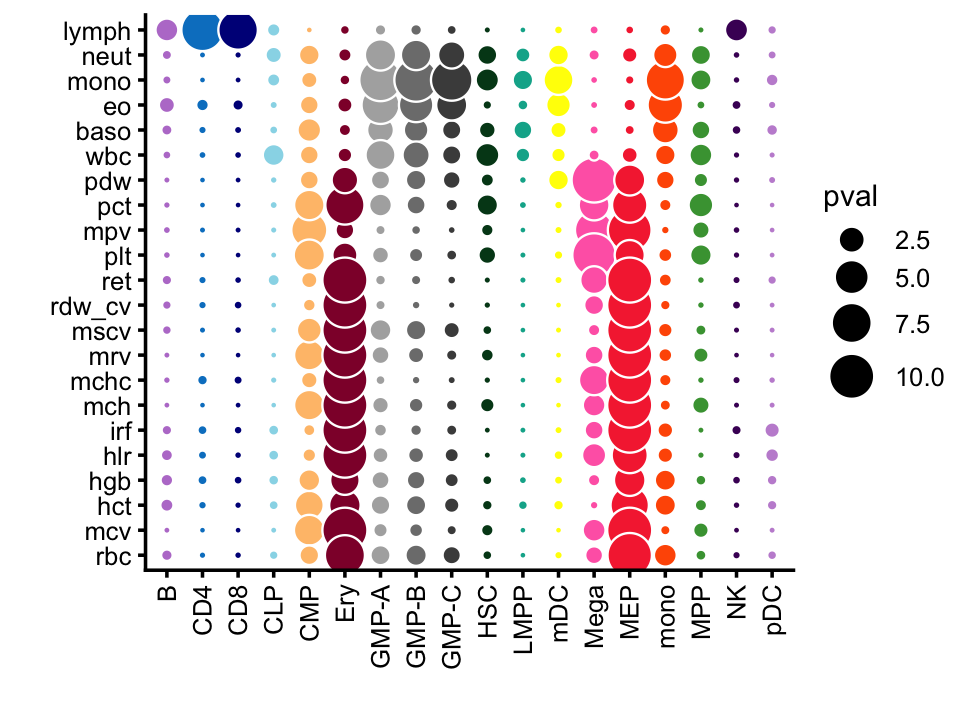
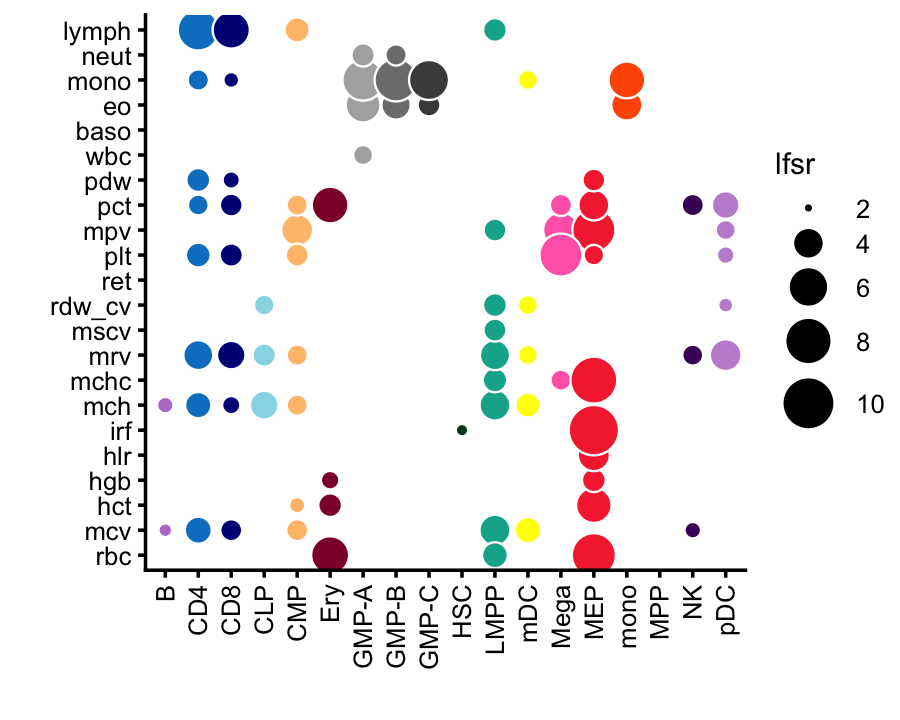
Built the new gchromvar page.

diff --git a/docs/gchromvar.html b/docs/gchromvar.html
@@ -11,7 +11,7 @@
 
 <meta name="author" content="Peter Carbonetto" />
 
-<meta name="date" content="2023-10-23" />
+<meta name="date" content="2023-10-25" />
 
 <title>gchromVAR analysis of SuSiE and mvSuSiE fine-mapping results for UK Biobank blood cell traits</title>
 
@@ -32,7 +32,7 @@
        code {color: inherit; background-color: rgba(0, 0, 0, 0.04);}
        pre:not([class]) { background-color: white }</style>
 <script src="site_libs/navigation-1.1/tabsets.js"></script>
-<link href="site_libs/highlightjs-9.12.0/textmate.css" rel="stylesheet" />
+<link href="site_libs/highlightjs-9.12.0/default.css" rel="stylesheet" />
 <script src="site_libs/highlightjs-9.12.0/highlight.js"></script>
 
 <style type="text/css">
@@ -165,7 +165,7 @@ pre code {
 <h1 class="title toc-ignore">gchromVAR analysis of SuSiE and mvSuSiE
 fine-mapping results for UK Biobank blood cell traits</h1>
 <h4 class="author">Peter Carbonetto</h4>
-<h4 class="date">October 23, 2023</h4>
+<h4 class="date">October 25, 2023</h4>
 
 </div>
 
@@ -174,114 +174,36 @@ fine-mapping results for UK Biobank blood cell traits</h1>
 href="https://github.com/caleblareau/gchromVAR">gchromvar</a> analysis
 here.</p>
 <p>Load the packages used in the analysis.</p>
-<pre class="r"><code>library(chromVAR)
-library(gchromVAR)
+<pre class="r"><code>library(ashr)
 library(BuenColors)
-library(SummarizedExperiment)
-library(data.table)
-library(BiocParallel)
-library(BSgenome.Hsapiens.UCSC.hg19)
 library(ggplot2)
-library(cowplot)
-library(reshape2)</code></pre>
+library(ggrepel)
+library(cowplot)</code></pre>
 <p>For reproducibility, set the seed.</p>
 <pre class="r"><code>set.seed(1)</code></pre>
-<p>Load the susie_rss blood cell trait fine-mapping results. Here we
-will limit to results with PIP &gt; 0.01.</p>
-<pre class="r"><code>susie_outfile   &lt;- file.path(&quot;../output/blood_cell_traits&quot;,
-                             &quot;susierss.notrem.CS_purity0.5.summary.csv.gz&quot;)
-susie &lt;- read.csv(susie_outfile,header = TRUE,stringsAsFactors = FALSE)
-susie &lt;- transform(susie,
-                   CHR    = factor(CHR,1:22),
-                   Region = factor(Region),
-                   trait  = factor(trait),
-                   REF    = factor(REF),
-                   ALT    = factor(ALT))
-susie &lt;- subset(susie,PIP &gt; 0.01)</code></pre>
-<p>Build a set of consensus, equal-width peaks spanning the hematopoesis
-phenotypes.</p>
-<pre class="r"><code>counts_file &lt;- paste0(system.file(&quot;extdata/paper&quot;,package = &quot;gchromVAR&quot;),
-                      &quot;/hemeCounts.tsv.gz&quot;)
-peaks_file &lt;- paste0(system.file(&quot;extdata/paper&quot;,package = &quot;gchromVAR&quot;),
-                     &quot;/hemePeaks.bed.gz&quot;)
-peaksdf &lt;- data.frame(fread(paste0(&quot;zcat &lt; &quot;,peaks_file)))
-peaks &lt;- makeGRangesFromDataFrame(peaksdf,
-                                  seqnames = &quot;V1&quot;,
-                                  start.field = &quot;V2&quot;,
-                                  end.field = &quot;V3&quot;)
-counts &lt;- data.matrix(fread(paste0(&quot;zcat &lt; &quot;, counts_file)))
-hema_dat &lt;- SummarizedExperiment(assays = list(counts = counts),
-                                 rowData = peaks, 
-                                 colData = DataFrame(names = colnames(counts)))
-hema_dat &lt;- addGCBias(hema_dat,genome = BSgenome.Hsapiens.UCSC.hg19)</code></pre>
-<p>Encode the fine-mapping results for each trait as a BED file.</p>
-<pre class="r"><code>traits &lt;- levels(susie$trait)
-bed_files &lt;- paste(traits,&quot;bed&quot;,sep = &quot;.&quot;)
-for (i in traits) {
-  dat  &lt;- subset(susie,trait == i)
-  dat  &lt;- dat[c(&quot;CHR&quot;,&quot;POS&quot;,&quot;Region&quot;,&quot;PIP&quot;)]
-  names(dat) &lt;- c(&quot;chr&quot;,&quot;start&quot;,&quot;region&quot;,&quot;pip&quot;)
-  rows &lt;- order(dat$chr,dat$start)
-  dat  &lt;- dat[rows,]
-  dat &lt;- transform(dat,
-                   chr = paste0(&quot;chr&quot;,chr),
-                   end = start + 1)
-  dat &lt;- dat[c(&quot;chr&quot;,&quot;start&quot;,&quot;end&quot;,&quot;region&quot;,&quot;pip&quot;)]
-  dat$pip &lt;- format(dat$pip,digits = 4) 
-  write.table(dat,paste(i,&quot;bed&quot;,sep = &quot;.&quot;),quote = FALSE,sep = &quot;\t&quot;,
-              row.names = FALSE,col.names = FALSE)
-}</code></pre>
-<p>Now we are ready to compute the weighted deviations using
-gchromVAR.</p>
-<pre class="r"><code>susie_se &lt;- importBedScore(rowRanges(hema_dat),bed_files,colidx = 5)
-wdev_susie &lt;- computeWeightedDeviations(hema_dat,susie_se)</code></pre>
-<p>Extract the z-scores and compute p-values.</p>
-<pre class="r"><code>z_susie &lt;- assays(wdev_susie)$z
-names(dimnames(z_susie)) &lt;- c(&quot;trait&quot;,&quot;celltype&quot;)
-z_susie &lt;- melt(z_susie)
-names(z_susie) &lt;- c(&quot;trait&quot;,&quot;celltype&quot;,&quot;zscore&quot;)</code></pre>
-<p>Perform the lineage-specific enrichment tests:</p>
-<pre class="r"><code>Ery   &lt;- c(&quot;HSC&quot;,&quot;MPP&quot;,&quot;CMP&quot;,&quot;MEP&quot;,&quot;Ery&quot;)
-Meg   &lt;- c(&quot;HSC&quot;,&quot;MPP&quot;,&quot;CMP&quot;,&quot;MEP&quot;,&quot;Mega&quot;)
-Mye   &lt;- c(&quot;HSC&quot;,&quot;MPP&quot;,&quot;CMP&quot;,&quot;LMPP&quot;,&quot;GMP-A&quot;,&quot;GMP-B&quot;,&quot;GMP-C&quot;,&quot;Mono&quot;,&quot;mDC&quot;)
-Lymph &lt;- c(&quot;HSC&quot;,&quot;MPP&quot;,&quot;LMPP&quot;,&quot;CLP&quot;,&quot;NK&quot;,&quot;pDC&quot;,&quot;CD4&quot;,&quot;CD8&quot;,&quot;B&quot;)
-z_susie$enrich  &lt;-
-    (z_susie$trait == &quot;Basophill_perc&quot;    &amp; z_susie$celltype %in% Mye) +
-    (z_susie$trait == &quot;Eosinophill_perc&quot;  &amp; z_susie$celltype %in% Mye) + 
-    (z_susie$trait == &quot;Neutrophill_perc&quot;  &amp; z_susie$celltype %in% Mye) +
-    (z_susie$trait == &quot;Monocyte_perc&quot;     &amp; z_susie$celltype %in% Mye) +
-    (z_susie$trait == &quot;WBC_count&quot;      &amp; z_susie$celltype %in% c(Mye,Lymph)) + 
-    (z_susie$trait == &quot;Lymphocyte_perc&quot;   &amp; z_susie$celltype %in% Lymph) +
-    (z_susie$trait == &quot;Platelet_count&quot;    &amp; z_susie$celltype %in% Meg) + 
-    (z_susie$trait == &quot;PDW&quot;               &amp; z_susie$celltype %in% Meg) + 
-    (z_susie$trait == &quot;Plateletcrit&quot;      &amp; z_susie$celltype %in% Meg) +
-    (z_susie$trait == &quot;Haemoglobin&quot;       &amp; z_susie$celltype %in% Ery) +
-    (z_susie$trait == &quot;RDW&quot;               &amp; z_susie$celltype %in% Ery) +
-    (z_susie$trait == &quot;MCV&quot;               &amp; z_susie$celltype %in% Ery) +
-    (z_susie$trait == &quot;RBC_count&quot;         &amp; z_susie$celltype %in% Ery) +
-    (z_susie$trait == &quot;Reticulocyte_perc&quot; &amp; z_susie$celltype %in% Ery) +
-    (z_susie$trait == &quot;HLR_perc&quot;          &amp; z_susie$celltype %in% Ery)
-z_susie$pval &lt;- -log10(pnorm(z_susie$zscore,lower.tail = FALSE))</code></pre>
-<pre class="r"><code>n &lt;- nrow(z_susie)
-threshold &lt;- (-log10(0.05/n))
-celltypes &lt;- c(&quot;B&quot;,&quot;CD4&quot;,&quot;CD8&quot;,&quot;CLP&quot;,&quot;CMP&quot;,&quot;Ery&quot;,&quot;GMP-A&quot;,&quot;GMP-B&quot;,&quot;GMP-C&quot;,
+<p>These are the cell types in the hematopoesis hierarchy:</p>
+<pre class="r"><code>celltypes &lt;- c(&quot;B&quot;,&quot;CD4&quot;,&quot;CD8&quot;,&quot;CLP&quot;,&quot;CMP&quot;,&quot;Ery&quot;,&quot;GMP-A&quot;,&quot;GMP-B&quot;,&quot;GMP-C&quot;,
                &quot;HSC&quot;,&quot;LMPP&quot;,&quot;mDC&quot;,&quot;Mega&quot;,&quot;MEP&quot;,&quot;mono&quot;,&quot;MPP&quot;,&quot;NK&quot;,&quot;pDC&quot;)
 celltype_colors &lt;- c(jdb_color_map(celltypes[1:11]),
                      c(&quot;yellow&quot;,&quot;hotpink&quot;),
                      jdb_color_map(celltypes[14:18]))
-heatmap_colors &lt;- c(&quot;#d7191c&quot;,&quot;#fdae61&quot;,&quot;#ffffbf&quot;,&quot;#abd9e9&quot;,&quot;#2c7bb6&quot;)
-pdat &lt;- transform(z_susie,
-                  pval = pmin(pval,10))
-ggplot(pdat,aes(x = celltype,y = trait,fill = celltype,size = pval)) +
-  geom_point(shape = 21,color = &quot;white&quot;) +
-  scale_size(range = c(1,5),limits = c(threshold,10)) + 
-  scale_fill_manual(values = celltype_colors,guide = &quot;none&quot;) +
-  guides(size = guide_legend(override.aes = list(shape = 21,fill = &quot;black&quot;))) +
-  theme_cowplot(font_size = 9) +
-  labs(x = &quot;&quot;,y = &quot;&quot;) +
-  theme(axis.text.x = element_text(angle = 90,hjust = 1,vjust = 0.5))
-# Warning: Removed 260 rows containing missing values (geom_point).</code></pre>
-<p><img src="gchromvar_files/figure-html/heatmap-susie-1.png" width="480" style="display: block; margin: auto;" /></p>
+names(celltype_colors) &lt;- celltypes</code></pre>
+<p>Load the SuSiE and mvSuSiE gchomeVAR results:</p>
+<pre class="r"><code>susie_traits &lt;- rev(
+  c(&quot;Lymphocyte_perc&quot;,&quot;Neutrophill_perc&quot;,&quot;Monocyte_perc&quot;,&quot;Eosinophill_perc&quot;,
+    &quot;Basophill_perc&quot;,&quot;WBC_count&quot;,&quot;PDW&quot;,&quot;Platelet_count&quot;,&quot;Plateletcrit&quot;,
+    &quot;Reticulocyte_perc&quot;,&quot;RDW&quot;,&quot;MSCV&quot;,&quot;HLR_perc&quot;,&quot;Haemoglobin&quot;,&quot;MCV&quot;,
+    &quot;RBC_count&quot;))
+susie   &lt;- read.csv(&quot;../output/blood_cell_traits/gchromvar_susie.csv&quot;,
+                    stringsAsFactors = FALSE)
+mvsusie &lt;- read.csv(&quot;../output/blood_cell_traits/gchromvar_mvsusie.csv&quot;,
+                    stringsAsFactors = FALSE)
+susie   &lt;- transform(susie,
+                     celltype = factor(celltype,celltypes),
+                     trait    = factor(trait,susie_traits))
+mvsusie &lt;- transform(mvsusie,
+                     celltype = factor(celltype,celltypes),
+                     trait    = factor(trait,susie_traits))</code></pre>
 <p>For a point of comparison, we will use the gchromVAR results from the
 <a href="https://doi.org/10.1016/j.cell.2020.08.008">Vuckovic <em>et
 al</em> paper</a> (they were downloaded from <a
@@ -293,25 +215,123 @@ vuckovic &lt;- read.table(&quot;../data/vuckovic_gchromVAR_zscores_ukbb_v2.txt&q
                        sep = &quot;\t&quot;,header = TRUE,stringsAsFactors = FALSE)
 vuckovic &lt;- transform(vuckovic,
                       Celltype = factor(Celltype,celltypes),
-                      Trait = factor(Trait,vuckovic_traits),
-                      pval = pmin(pval,10))</code></pre>
-<p>This plot reproduces Fig. 3A from the Vuckovic <em>et al</em>
+                      Trait = factor(Trait,vuckovic_traits))</code></pre>
+<p>Shrink the <em>z</em>-scores using adaptive shrinkage:</p>
+<pre class="r"><code>ash1 &lt;- ash(susie$zscore,1)
+ash2 &lt;- ash(mvsusie$zscore,1)
+ash3 &lt;- ash(vuckovic$zscore,1)
+susie    &lt;- transform(susie,
+                      zscore = with(ash1$result,PosteriorMean/PosteriorSD),
+                      lfsr = -log10(ash1$result$lfsr))
+mvsusie  &lt;- transform(mvsusie,
+                      zscore = with(ash2$result,PosteriorMean/PosteriorSD),
+                      lfsr = -log10(ash2$result$lfsr))
+vuckovic &lt;- transform(vuckovic,
+                      zscore = with(ash3$result,PosteriorMean/PosteriorSD),
+                      lfsr = -log10(ash3$result$lfsr))</code></pre>
+<p>This plot roughly reproduces Fig. 3A from the Vuckovic <em>et al</em>
 paper:</p>
-<pre class="r"><code>pdat &lt;- transform(vuckovic,pval = pmin(pval,10))
-ggplot(vuckovic,aes(x = Celltype,y = Trait,fill = Celltype,size = pval)) +
+<pre class="r"><code>pdat &lt;- transform(vuckovic,lfsr = pmin(lfsr,10))
+p1&lt;-ggplot(vuckovic,aes(x = Celltype,y = Trait,fill = Celltype,size = lfsr)) +
   geom_point(shape = 21,color = &quot;white&quot;) +
-  scale_size(range = c(0.65,6)) +
+  scale_size(range = c(1,7),limits = c(2,10)) +
   scale_fill_manual(values = celltype_colors,guide = &quot;none&quot;) +
   guides(size = guide_legend(override.aes = list(shape = 21,fill = &quot;black&quot;))) +
   theme_cowplot(font_size = 9) +
   labs(x = &quot;&quot;,y = &quot;&quot;) +
-  theme(axis.text.x = element_text(angle = 90,hjust = 1,vjust = 0.5))</code></pre>
-<p><img src="gchromvar_files/figure-html/heatmap-vuckovic-1.png" width="480" style="display: block; margin: auto;" /></p>
-<p>ADD TEXT HERE</p>
-<pre class="r"><code>plot(subset(vuckovic,Trait == &quot;wbc&quot;)$zscore,
-     subset(z_susie,trait == &quot;WBC_count&quot;)$zscore,
-     pch = 20)</code></pre>
-<p><img src="gchromvar_files/figure-html/unnamed-chunk-1-1.png" width="840" style="display: block; margin: auto;" /></p>
+  theme(axis.text.x = element_text(angle = 90,hjust = 1,vjust = 0.5))
+p1</code></pre>
+<p><img src="gchromvar_files/figure-html/heatmap-vuckovic-1.png" width="450" style="display: block; margin: auto;" /></p>
+<p>Let’s now compare these results to the results generated by the
+mvsusie fine-mapping of blood cell traits:</p>
+<pre class="r"><code>pdat &lt;- transform(mvsusie,lfsr = pmin(lfsr,10))
+p2 &lt;- ggplot(mvsusie,aes(x = celltype,y = trait,fill = celltype,size = lfsr)) +
+  geom_point(shape = 21,color = &quot;white&quot;) +
+  scale_size(range = c(1,7),limits = c(2,10)) +
+  scale_fill_manual(values = celltype_colors,guide = &quot;none&quot;) +
+  guides(size = guide_legend(override.aes = list(shape = 21,fill = &quot;black&quot;))) +
+  theme_cowplot(font_size = 9) +
+  labs(x = &quot;&quot;,y = &quot;&quot;) +
+  theme(axis.text.x = element_text(angle = 90,hjust = 1,vjust = 0.5))
+plot_grid(p1 + ggtitle(&quot;vuckovic et al&quot;),
+          p2 + ggtitle(&quot;mvsusie&quot;),
+          rel_widths = c(87,100))</code></pre>
+<p><img src="gchromvar_files/figure-html/heatmap-mvsusie-1.png" width="840" style="display: block; margin: auto;" /></p>
+<p>Compare the susie-based and mvsusie-based gchromVAR
+<em>z</em>-scores:</p>
+<pre class="r"><code>pdat &lt;- data.frame(trait    = susie$trait,
+                   celltype = susie$celltype,
+                   susie    = susie$zscore,
+                   mvsusie  = mvsusie$zscore)
+z &lt;- c(susie$zscore,mvsusie$zscore)
+ggplot(pdat,aes(x = susie,y = mvsusie,color = celltype,label = trait)) +
+  geom_point(shape = 20,size = 1.75) +
+  geom_abline(intercept = 0,slope = 1,color = &quot;black&quot;,linetype = &quot;dotted&quot;) +
+  geom_text_repel(size = 2,segment.color = &quot;darkgray&quot;,segment.size = 0.25,
+                  min.segment.length = 0) +
+  scale_color_manual(values = celltype_colors) +
+  xlim(min(z),max(z)) +
+  ylim(min(z),max(z)) +
+  theme_cowplot(font_size = 10)</code></pre>
+<p><img src="gchromvar_files/figure-html/mvsusie-vs-susie-1.png" width="480" style="display: block; margin: auto;" /></p>
+<p>The same comparison, broken down by cell type:</p>
+<pre class="r"><code>p        &lt;- vector(&quot;list&quot;,length(celltypes))
+names(p) &lt;- celltypes
+for (i in celltypes) {
+  dat1 &lt;- subset(susie,celltype == i)
+  dat2 &lt;- subset(mvsusie,celltype == i)
+  z    &lt;- c(dat1$z,dat2$z)
+  pdat &lt;- data.frame(trait   = as.character(dat1$trait),
+                     susie   = dat1$zscore,
+                     mvsusie = dat2$zscore,
+                     stringsAsFactors = FALSE)
+  p[[i]] &lt;- ggplot(pdat,aes(x = susie,y = mvsusie,label = trait)) +
+    geom_point(shape = 20,color = celltype_colors[i]) +
+    geom_abline(intercept = 0,slope = 1,color = &quot;black&quot;,linetype = &quot;dotted&quot;) +
+    xlim(min(z),max(z)) +
+    ylim(min(z),max(z)) +
+    ggtitle(i) +
+    theme_cowplot(font_size = 9) +
+    theme(plot.title = element_text(size = 10,face = &quot;plain&quot;))
+}
+do.call(plot_grid,p)</code></pre>
+<p><img src="gchromvar_files/figure-html/mvsusie-vs-susie-2-1.png" width="960" style="display: block; margin: auto;" /></p>
+<p>Validation of the mvsusie-based gchromVAR analysis by comparing the
+<em>z</em>-scores for the 6 traits that were common to the mvsusie-based
+analysis and the Vuckovic <em>et al</em> analysis:</p>
+<pre class="r"><code>create_scatterplot &lt;- function (z1, z2, title) {
+  pdat &lt;- data.frame(z1 = z1,z2 = z2)
+  z    &lt;- c(z1,z2)
+  return(ggplot(pdat,aes(x = z1,y = z2)) +
+    geom_point(shape = 20) +
+    geom_abline(intercept = 0,slope = 1,color = &quot;magenta&quot;,
+                linetype = &quot;dotted&quot;) +
+    xlim(min(z),max(z)) +
+    ylim(min(z),max(z)) +
+    labs(x = &quot;vuckovic et al&quot;,y = &quot;mvsusie&quot;,title = title) +
+    theme_cowplot(font_size = 9) +
+    theme(plot.title = element_text(size = 9,face = &quot;plain&quot;)))
+}
+p1 &lt;- create_scatterplot(subset(vuckovic,Trait == &quot;wbc&quot;)$zscore,
+                         subset(mvsusie,trait == &quot;WBC_count&quot;)$zscore,
+                         &quot;WBC count&quot;)
+p2 &lt;- create_scatterplot(subset(vuckovic,Trait == &quot;plt&quot;)$zscore,
+                         subset(mvsusie,trait == &quot;Platelet_count&quot;)$zscore,
+                         &quot;platelet count&quot;)
+p3 &lt;- create_scatterplot(subset(vuckovic,Trait == &quot;rbc&quot;)$zscore,
+                         subset(mvsusie,trait == &quot;RBC_count&quot;)$zscore,
+                         &quot;RBC count&quot;)
+p4 &lt;- create_scatterplot(subset(vuckovic,Trait == &quot;hgb&quot;)$zscore,
+                         subset(mvsusie,trait == &quot;Haemoglobin&quot;)$zscore,
+                         &quot;Haemoglobin&quot;)
+p5 &lt;- create_scatterplot(subset(vuckovic,Trait == &quot;mcv&quot;)$zscore,
+                         subset(mvsusie,trait == &quot;MCV&quot;)$zscore,
+                         &quot;MCV&quot;)
+p6 &lt;- create_scatterplot(subset(vuckovic,Trait == &quot;pct&quot;)$zscore,
+                         subset(mvsusie,trait == &quot;Plateletcrit&quot;)$zscore,
+                         &quot;Platelet crit.&quot;)
+plot_grid(p1,p2,p3,p4,p5,p6,nrow = 2,ncol = 3)</code></pre>
+<p><img src="gchromvar_files/figure-html/mvsusie-vs-vuckovic-1.png" width="720" style="display: block; margin: auto;" /></p>
 <p>This last code chunk is a record of the exact versions of the R
 packages used to generate the results (in case we want to reproduce this
 analysis):</p>
@@ -328,74 +348,27 @@ analysis):</p>
 # [1] en_US.UTF-8/en_US.UTF-8/en_US.UTF-8/C/en_US.UTF-8/en_US.UTF-8
 # 
 # attached base packages:
-# [1] parallel  stats4    stats     graphics  grDevices utils     datasets 
-# [8] methods   base     
+# [1] stats     graphics  grDevices utils     datasets  methods   base     
 # 
 # other attached packages:
-#  [1] reshape2_1.4.3                    cowplot_1.1.1                    
-#  [3] BSgenome.Hsapiens.UCSC.hg19_1.4.0 BSgenome_1.54.0                  
-#  [5] rtracklayer_1.46.0                Biostrings_2.52.0                
-#  [7] XVector_0.26.0                    data.table_1.14.2                
-#  [9] SummarizedExperiment_1.16.1       DelayedArray_0.12.3              
-# [11] BiocParallel_1.18.1               matrixStats_0.63.0               
-# [13] Biobase_2.46.0                    GenomicRanges_1.38.0             
-# [15] GenomeInfoDb_1.22.1               IRanges_2.20.2                   
-# [17] S4Vectors_0.24.4                  BiocGenerics_0.32.0              
-# [19] BuenColors_0.5.6                  ggplot2_3.3.6                    
-# [21] MASS_7.3-51.4                     gchromVAR_0.3.2                  
-# [23] chromVAR_1.8.0                   
+# [1] ashr_2.2-57      cowplot_1.1.1    ggrepel_0.9.1    BuenColors_0.5.6
+# [5] ggplot2_3.3.6    MASS_7.3-51.4   
 # 
 # loaded via a namespace (and not attached):
-#  [1] VGAM_1.1-5                  colorspace_1.4-1           
-#  [3] ellipsis_0.3.2              farver_2.0.1               
-#  [5] DT_0.11                     bit64_0.9-7                
-#  [7] AnnotationDbi_1.48.0        fansi_0.4.0                
-#  [9] codetools_0.2-16            splines_3.6.2              
-# [11] R.methodsS3_1.8.1           knitr_1.37                 
-# [13] jsonlite_1.7.2              Rsamtools_2.0.3            
-# [15] seqLogo_1.50.0              annotate_1.64.0            
-# [17] GO.db_3.10.0                png_0.1-7                  
-# [19] R.oo_1.24.0                 shiny_1.7.4                
-# [21] readr_2.1.2                 compiler_3.6.2             
-# [23] httr_1.4.2                  assertthat_0.2.1           
-# [25] Matrix_1.3-4                fastmap_1.1.0              
-# [27] lazyeval_0.2.2              cli_3.5.0                  
-# [29] later_1.0.0                 htmltools_0.5.4            
-# [31] tools_3.6.2                 gtable_0.3.0               
-# [33] glue_1.4.2                  TFMPvalue_0.0.8            
-# [35] GenomeInfoDbData_1.2.2      dplyr_1.0.7                
-# [37] Rcpp_1.0.8                  jquerylib_0.1.4            
-# [39] vctrs_0.3.8                 xfun_0.36                  
-# [41] CNEr_1.22.0                 stringr_1.4.0              
-# [43] mime_0.8                    miniUI_0.1.1.1             
-# [45] lifecycle_1.0.3             poweRlaw_0.70.6            
-# [47] gtools_3.8.1                XML_3.99-0.3               
-# [49] zlibbioc_1.32.0             scales_1.1.0               
-# [51] hms_1.1.0                   promises_1.1.0             
-# [53] yaml_2.2.0                  memoise_1.1.0              
-# [55] sass_0.4.0                  stringi_1.4.3              
-# [57] RSQLite_2.2.0               highr_0.8                  
-# [59] caTools_1.17.1.3            rlang_1.0.6                
-# [61] pkgconfig_2.0.3             bitops_1.0-6               
-# [63] pracma_2.2.9                evaluate_0.14              
-# [65] lattice_0.20-38             purrr_0.3.4                
-# [67] labeling_0.3                GenomicAlignments_1.20.1   
-# [69] htmlwidgets_1.6.1           bit_1.1-15.2               
-# [71] tidyselect_1.1.1            plyr_1.8.5                 
-# [73] magrittr_2.0.1              R6_2.4.1                   
-# [75] generics_0.0.2              DBI_1.1.0                  
-# [77] pillar_1.6.2                withr_2.5.0                
-# [79] KEGGREST_1.26.1             RCurl_1.98-1.2             
-# [81] tibble_3.1.3                crayon_1.4.1               
-# [83] utf8_1.1.4                  plotly_4.10.1              
-# [85] nabor_0.5.0                 tzdb_0.1.2                 
-# [87] rmarkdown_2.21              TFBSTools_1.24.0           
-# [89] grid_3.6.2                  blob_1.2.1                 
-# [91] digest_0.6.23               xtable_1.8-4               
-# [93] tidyr_1.1.3                 httpuv_1.5.2               
-# [95] R.utils_2.11.0              munsell_0.5.0              
-# [97] DirichletMultinomial_1.28.0 viridisLite_0.3.0          
-# [99] bslib_0.3.1</code></pre>
+#  [1] tidyselect_1.1.1  xfun_0.36         bslib_0.3.1       purrr_0.3.4      
+#  [5] lattice_0.20-38   colorspace_1.4-1  vctrs_0.3.8       generics_0.0.2   
+#  [9] htmltools_0.5.4   yaml_2.2.0        utf8_1.1.4        rlang_1.0.6      
+# [13] mixsqp_0.3-48     jquerylib_0.1.4   pillar_1.6.2      glue_1.4.2       
+# [17] withr_2.5.0       DBI_1.1.0         lifecycle_1.0.3   stringr_1.4.0    
+# [21] munsell_0.5.0     gtable_0.3.0      evaluate_0.14     labeling_0.3     
+# [25] knitr_1.37        fastmap_1.1.0     invgamma_1.1      irlba_2.3.3      
+# [29] fansi_0.4.0       highr_0.8         Rcpp_1.0.8        scales_1.1.0     
+# [33] jsonlite_1.7.2    truncnorm_1.0-8   farver_2.0.1      digest_0.6.23    
+# [37] stringi_1.4.3     dplyr_1.0.7       grid_3.6.2        cli_3.5.0        
+# [41] tools_3.6.2       magrittr_2.0.1    sass_0.4.0        tibble_3.1.3     
+# [45] crayon_1.4.1      pkgconfig_2.0.3   ellipsis_0.3.2    Matrix_1.3-4     
+# [49] SQUAREM_2017.10-1 assertthat_0.2.1  rmarkdown_2.21    R6_2.4.1         
+# [53] compiler_3.6.2</code></pre>
 
 
 
